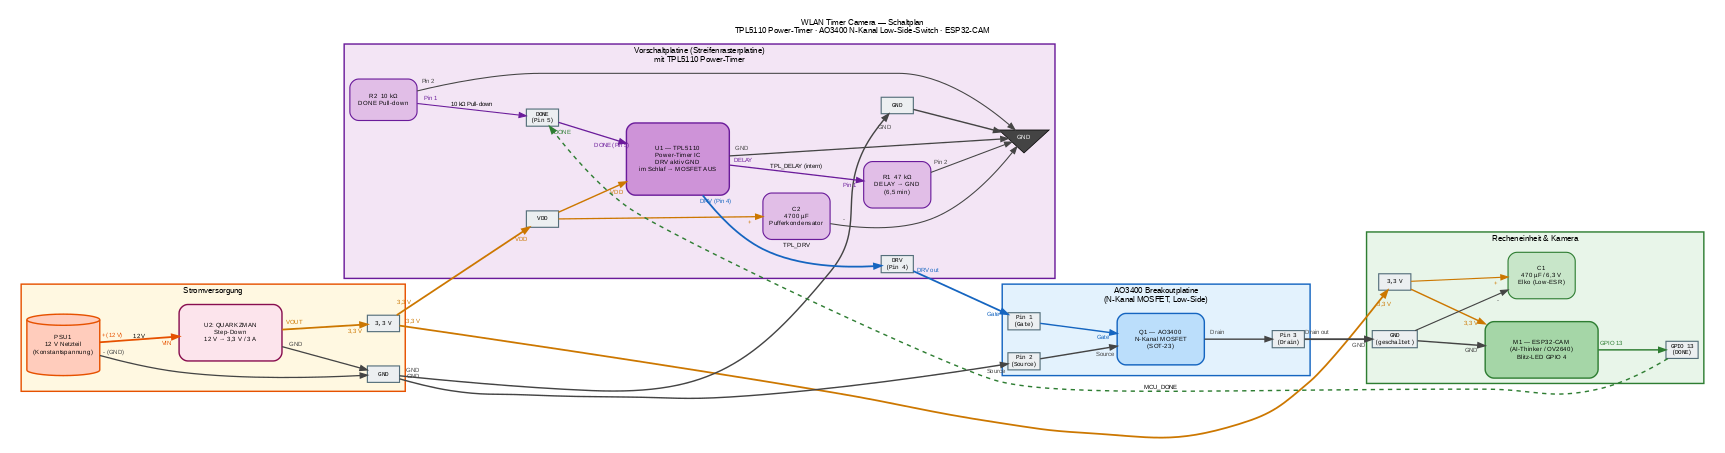
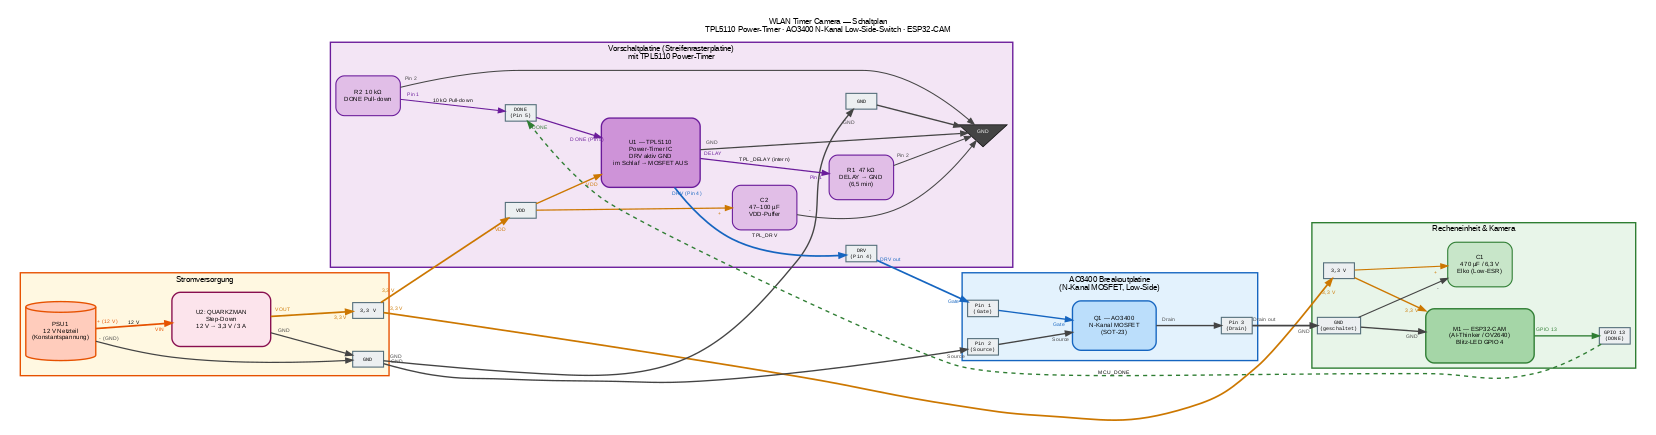
Update schematic and documentation for C2 component
- Changed C2 label in schematic from "C2\n4700 µF\nPufferkondensator" to "C2\n47–100 µF\nVDD-Puffer".
- Updated SVG representation of C2 to reflect new label and description.
- Modified documentation to specify C2 as a "VDD-Pufferkondensator" with a capacitance range of "47–100 µF" and added details about its function in voltage spike buffering.
- Adjusted main.c to set the DONE pin to high-impedance mode after signaling completion to prevent leakage current.
- Removed unnecessary wait calls in scp_upload.c after sending EOF to streamline the upload process.

diff --git a/src/main.c b/src/main.c
@@ -45,6 +45,10 @@ static void signal_done(void)
     gpio_set_level(PIN_DONE, 1);
     // 200 ms halten, damit TPL5110 den Impuls sicher erkennt
     vTaskDelay(pdMS_TO_TICKS(200));
+    // Pin hochohmig schalten: R2 zieht DONE auf GND zurück,
+    // kein Kriechstrom mehr über R2 wenn GND-MOSFET sperrt
+    gpio_set_direction(PIN_DONE, GPIO_MODE_INPUT);
+    gpio_set_pull_mode(PIN_DONE, GPIO_FLOATING);
 }
 
 // ── Hauptprogramm ────────────────────────────────────────────────────────────

diff --git a/src/scp_upload.c b/src/scp_upload.c
@@ -117,8 +117,6 @@ esp_err_t scp_upload(const uint8_t *data, size_t len, const char *remote_filenam
     }
 
     libssh2_channel_send_eof(channel);
-    libssh2_channel_wait_eof(channel);
-    libssh2_channel_wait_closed(channel);
 
     ESP_LOGI(TAG, "Upload abgeschlossen: %s (%zu Bytes)", remote_path, len);
     result = ESP_OK;
@@ -184,8 +182,6 @@ esp_err_t ssh_exec_append_log(int rssi_pct)
     }
 
     libssh2_channel_send_eof(channel);
-    libssh2_channel_wait_eof(channel);
-    libssh2_channel_wait_closed(channel);
 
     ESP_LOGI(TAG, "Signal-Log geschrieben: %d %%", rssi_pct);
     result = ESP_OK;

diff --git a/docs/schaltplanbeschreibung.md b/docs/schaltplanbeschreibung.md
@@ -16,7 +16,7 @@ Der Aufbau ist in vier physische Module gegliedert. Jedes Modul kommuniziert aus
 
 **Modul B — Vorschaltplatine (Streifenrasterplatine mit TPL5110)**
 - U1: TPL5110 Power-Timer IC | Gehäuse: SOT-23-6 oder generischer 5-Pin-Block
-- C2: Pufferkondensator | Elektrolytkondensator | 4700 µF | parallel zu VDD/GND
+- C2: VDD-Pufferkondensator | Elektrolytkondensator | 47–100 µF | parallel zu VDD/GND | puffert Spannungsspike beim MOSFET-Abschalten
 - R1: Timer-Widerstand | 47 kΩ | zwischen U1 DELAY und GND | legt Einschaltdauer auf 6,5 Minuten fest
 - R2: DONE-Pull-down | 10 kΩ | zwischen U1 DONE und GND | verhindert floatenden Eingang
 - Außenpins: `VDD`, `GND`, `DRV (Pin 4)`, `DONE (Pin 5)`